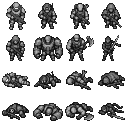
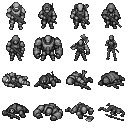
art: new berserker and high-tech ninja sprites, picked by the user (3.48.3)
Two rounds of GPT Image candidates through the local _gptImageCaller,
each with Codex's source atlas as the style reference, pixelized with
the same indexed() pipeline and shown at game size before picking.

- Berserker B1: axe resting on the right shoulder, left fist clenched.
- Ninja N2-1: sealed high-tech helmet and fitted armour, no scarf,
  katana sheathed at the left hip with the right hand on the grip.
- Matching fallen poses for both; the old fallen ninja still wore a
  hood and scarf.

tools/pixelize_classes.py reads the three new sources through
MELEE_V3 (fallen sheet lifted x1.2 to the v1 grey range). Only the four
melee sprites and the atlas files change; the other twelve PNGs are
byte-identical. Prompts are in art/classes-v1/PROMPT-melee-v3.md; the
16 unpicked candidates and both comparison sheets stay in
art/classes-v1/candidates/ as backups.

513 tests pass, build passes. Rules and saves unchanged.

Changed region(s): [[0.5, 0.7812, 1.0, 0.9688], [0.5, 0.25, 0.75, 0.5], [0.7812, 0.25, 0.9688, 0.5]]

diff --git a/sw.js b/sw.js
@@ -1,4 +1,4 @@
-const CACHE='ash-protocol-v3-48-2';
+const CACHE='ash-protocol-v3-48-3';
 const FILES=['./','./index.html','./style.css','./expansion.css','./src/main.js','./src/controller.js','./src/daily.js','./src/version.js','./src/engine.js','./src/data.js','./src/world.js','./src/barriers.js','./src/containers.js','./src/modules.js','./src/missions.js','./src/retreat.js','./src/traces.js','./src/themes.js','./src/walls.js','./src/art-tone.js','./src/materials.js','./src/material-selection.js','./src/material-review.js','./material-review.html','./src/combat.js','./src/cover.js','./src/lighting.js','./src/traits.js','./src/melee-classes.js','./src/melee-ui.js','./src/operator-color.js','./src/throwables.js','./src/prepared.js','./src/skills.js','./src/allies.js','./src/characters.js','./src/actor-stats.js','./src/portraits.js','./src/camera.js','./src/game.js','./src/perks.js','./src/storage.js','./src/progression.js','./src/ammunition.js','./src/weapons.js','./src/backup.js','./src/layout.js','./src/target-card.js','./src/presentation.js','./src/render.js','./src/renderer.js','./src/class-art.js','./assets/pixel/classes-v1/atlas.png','./src/movement-boundaries.js','./src/audio.js','./assets/icon.svg','./assets/operator.svg','./assets/rifle.svg','./assets/lmg.svg','./assets/thunder.svg','./assets/powerfist.svg','./assets/shotgun.svg','./assets/smg.svg','./assets/sniper.svg','./assets/plasma.svg','./assets/launcher.svg','./assets/pixel/atlas.png','./assets/pixel/terrain-v1/atlas.png','./assets/pixel/walls-v1/atlas.png','./assets/pixel/aftermath.png','./assets/pixel/player.png','./assets/pixel/portraits/ember.png','./assets/pixel/portraits/onyx.png','./assets/pixel/portraits/silver.png','./assets/pixel/portraits/cedar.png','./assets/pixel/portraits/portrait-05.png','./assets/pixel/portraits/portrait-06.png','./assets/pixel/portraits/portrait-07.png','./assets/pixel/portraits/portrait-08.png','./assets/pixel/portraits/portrait-09.png','./assets/pixel/portraits/portrait-10.png','./assets/pixel/portraits/portrait-11.png','./assets/pixel/portraits/portrait-12.png','./assets/pixel/portraits/portrait-13.png','./assets/pixel/portraits/portrait-14.png','./assets/pixel/portraits/portrait-15.png','./assets/pixel/portraits/portrait-16.png','./manifest.webmanifest'];
 self.addEventListener('install',event=>{event.waitUntil(caches.open(CACHE).then(cache=>cache.addAll(FILES.map(url=>new Request(url,{cache:'reload'})))));self.skipWaiting();});
 self.addEventListener('activate',event=>{event.waitUntil(caches.keys().then(keys=>Promise.all(keys.filter(k=>k.startsWith('ash-protocol-')&&k!==CACHE).map(k=>caches.delete(k)))));self.clients.claim();});

diff --git a/src/version.js b/src/version.js
@@ -1,3 +1,3 @@
 // The one place the game version lives (3.44.1). `npm run bump -- x.y.z` rewrites it together with package.json
 // and the sw.js cache name; tests/release.test.mjs fails if the three disagree.
-export const VERSION='3.48.2';
+export const VERSION='3.48.3';

diff --git a/tools/pixelize_classes.py b/tools/pixelize_classes.py
@@ -11,7 +11,14 @@ import hashlib, json
 ROOT = Path(__file__).resolve().parents[1]
 OUT = ROOT / 'assets/pixel/classes-v1'
 SOURCE = ROOT / 'art/classes-v1/source-atlas.png'
-MELEE_SOURCE = ROOT / 'art/classes-v1/source-melee-standing-v2.png'
+MELEE_SOURCE = ROOT / 'art/classes-v1/source-melee-standing-v2.png'  # 3.48.1 standing pair, kept for history
+# 3.48.3 (user pick): berserker B1 from a two-figure sheet, a single-figure high-tech ninja N2-1, and matching fallen poses.
+# Split columns are the hand-checked centres of the empty gap between the two figures.
+MELEE_V3 = {'berserker': (ROOT / 'art/classes-v1/source-berserker-v3.png', 'left', 732),
+            'ninja': (ROOT / 'art/classes-v1/source-ninja-v3.png', 'whole', None),
+            'dead-berserker': (ROOT / 'art/classes-v1/source-melee-dead-v3.png', 'left', 784),
+            'dead-ninja': (ROOT / 'art/classes-v1/source-melee-dead-v3.png', 'right', 784)}
+DEAD_V3_GAIN = 1.2  # the fallen sheet renders darker than the v1 atlas; lift it to the same grey range
 NAMES = ['soldier', 'recon', 'engineer', 'druid', 'necromancer', 'bulwark', 'berserker', 'ninja']
 GRAY = [16, 33, 58, 82, 115, 148, 181, 214, 239]
 # Hand-reviewed cell borders: generated feet cross the nominal quarter rows.
@@ -48,7 +55,7 @@ def indexed(cell, size=None, gain=1):
 
 def build():
     OUT.mkdir(parents=True,exist_ok=True); source=Image.open(SOURCE)
-    atlas=Image.new('RGBA',(128,128)); meta={'tileSize':32,'columns':4,'palette':GRAY,'source_sha256':hashlib.sha256(SOURCE.read_bytes()).hexdigest(),'melee_source_sha256':hashlib.sha256(MELEE_SOURCE.read_bytes()).hexdigest(),'sprites':{}}
+    atlas=Image.new('RGBA',(128,128)); meta={'tileSize':32,'columns':4,'palette':GRAY,'source_sha256':hashlib.sha256(SOURCE.read_bytes()).hexdigest(),'melee_v3_sha256':{key:hashlib.sha256(path.read_bytes()).hexdigest() for key,(path,_,_) in MELEE_V3.items()},'sprites':{}}
     for i in range(16):
         row,col=divmod(i,4); name=NAMES[i%8]; dead=i>=8; key=('dead-' if dead else '')+name
         if name=='soldier':
@@ -56,14 +63,14 @@ def build():
             sprite=indexed(Image.open(original).convert('RGBA'),gain=1.6)
         else:
             cell=clear_matte(source.crop((COLS[row][col],ROWS[row],COLS[row][col+1],ROWS[row+1])))
-            if not dead and name in ['berserker','ninja']:
-                replacement=Image.open(MELEE_SOURCE).convert('RGBA')
-                # Hand-reviewed gap between figures; the axe crosses the nominal middle.
-                split=round(replacement.width*.56)
-                cell=replacement.crop((0 if name=='berserker' else split,0,split if name=='berserker' else replacement.width,replacement.height))
+            gain=1
+            if key in MELEE_V3:
+                path,side,split=MELEE_V3[key]; sheet=Image.open(path).convert('RGBA')
+                cell=sheet if side=='whole' else sheet.crop((0,0,split,sheet.height)) if side=='left' else sheet.crop((split,0,sheet.width,sheet.height))
+                gain=DEAD_V3_GAIN if dead else 1
             # Keep large bodies large, rather than normalizing every silhouette to equal width.
             limit=(30,28) if name=='bulwark' else (29,27) if name=='berserker' else (27,26)
-            sprite=indexed(cell,limit)
+            sprite=indexed(cell,limit,gain)
         file=OUT/f'{key}.png'; sprite.save(file,transparency=0,bits=4,optimize=True)
         atlas.alpha_composite(sprite.convert('RGBA'),(col*32,row*32))
         meta['sprites'][key]={'x':col*32,'y':row*32,'w':32,'h':32,'sha256':hashlib.sha256(file.read_bytes()).hexdigest()}

diff --git a/art/classes-v1/PROMPT-melee-v3.md b/art/classes-v1/PROMPT-melee-v3.md
@@ -1,0 +1,43 @@
+# GPT Image：狂戰士／忍者 v3（3.48.3，Claude）
+
+工具：本機 `C:\claude_project\_gptImageCaller\generate.py`（OpenAI images edits，模型 gpt-image-2，`--background transparent`）。每次都附參考圖，只當風格參考。
+
+| 圖 | 參考圖 | 尺寸／品質 | 產出 | 使用者選擇 |
+| --- | --- | --- | --- | --- |
+| 狂戰士站姿 | source-atlas.png | 1536×768／medium | 雙人圖，左狂戰士 | **B1** → `source-berserker-v3.png` |
+| 忍者站姿 | source-atlas.png＋B1 | 1024×1024／low | 單人圖 | **N2-1** → `source-ninja-v3.png` |
+| 兩人倒地 | source-atlas.png＋B1＋N2-1 | 1536×768／low | 雙人圖 | Claude 選 dead-1 → `source-melee-dead-v3.png` |
+
+A、B、C 三組在同一輪各產兩張，A 是 Codex 的 PROMPT-melee-standing-v2 原文。使用者看過比較表後，狂戰士選 B1，並要求忍者改成「高科技、不要領巾、動作內斂」重產，N1～N3 各兩張，最後選 N2-1。沒選的都當備用，32×32 成品與比較表在 [candidates/](candidates/README.md)。
+
+## 提示詞 B（狂戰士選用這組）
+
+Generate a replacement TWO-SPRITE sheet, only two standing full-body characters, side by side in two equal cells, generous empty padding on transparent background. Match reference row2 columns3 and4 exactly in overhead front-facing camera, neutral grayscale SNES pixel style, outfit and body proportions. LEFT: broad muscular armored Berserker, thick bare arms, wide planted stance. He rests ONE long two-handed axe on his right shoulder: his right hand grips the shaft at chest height, the shaft rises over the right shoulder and the big single axe head sits above and outside the right shoulder, visibly connected to the shaft; his left hand is a clenched fist at his left side. No floating weapon, no shaft passing through the head. RIGHT: slim masked tactical Ninja with small scarf, in a low crouched ready stance with knees bent, holding ONE katana in a reverse grip in his right hand: the slender blade runs back along the outside of his right forearm with the point angled down and outward, small crossguard visible right at the fist; his left hand is held forward, open, at chest height. No second blade, no scabbard in hands, no gun stance.
+Weapons fully within own cells; readable grips and distinct blade/handle silhouettes are priority. Coarse pixel clusters designed for actual 32x32 downsampling, 9 shades of neutral gray, bold dark outlines, no colored accents, no text, no grid, no environment, no shadow, no extra characters or death poses. Preserve the reference compact helmet design for Berserker and slim Ninja hood, not realistic human proportions. The two standing sprites should occupy roughly equal height but Berserker body is visibly broader. Transparent background.
+
+## 提示詞 C（備用）
+
+Generate a replacement TWO-SPRITE sheet, only two standing full-body characters, side by side in two equal cells, generous empty padding on transparent background. Match reference row2 columns3 and4 exactly in overhead front-facing camera, neutral grayscale SNES pixel style, outfit and body proportions. LEFT: broad muscular armored Berserker, thick bare arms, feet apart. He raises ONE long two-handed axe high above his helmet with both hands gripping the shaft together, elbows up, ready for a downward chop; the big single axe head is above his head and slightly to the right, clearly connected to the shaft, silhouette taller than his body but still fully inside the cell. No floating weapon. RIGHT: slim masked tactical Ninja with small scarf, in a classic two-handed sword guard: both hands together on the short katana handle at the center of his chest, small crossguard just above the hands, ONE continuous slender blade pointing straight up and slightly forward in front of his face along the body center line. Feet in a balanced stance. No second blade, no scabbard in hands, no gun stance.
+Weapons fully within own cells; readable grips and distinct blade/handle silhouettes are priority. Coarse pixel clusters designed for actual 32x32 downsampling, 9 shades of neutral gray, bold dark outlines, no colored accents, no text, no grid, no environment, no shadow, no extra characters or death poses. Preserve the reference compact helmet design for Berserker and slim Ninja hood, not realistic human proportions. The two standing sprites should occupy roughly equal height but Berserker body is visibly broader. Transparent background.
+
+## 提示詞 N1：刀低垂在身側（備用）
+
+Use the two reference images for STYLE ONLY: the first is the game's sprite atlas, the second is a sheet whose LEFT character (a muscular berserker with an axe on his shoulder) is the chosen art direction. Create ONE single standing full-body sprite of a HIGH-TECH NINJA, centered in the image with generous transparent padding. Draw only this one character: do not draw the berserker, no other characters. Same overhead three-quarter front/down-facing camera, chunky SNES pixel-art proportions, same pixel density, outline weight and neutral gray palette as the berserker reference. Character: slim agile special-forces operative, one size slimmer than the berserker; sleek sealed high-tech helmet with a narrow horizontal visor slit (no cloth mask, no cloth hood, NO scarf, no flowing cloth, no ribbons, no belts hanging loose); form-fitting armored stealth bodysuit with smooth segmented plates on shoulders, chest, forearms and shins, compact utility belt. Pose must be restrained, calm and composed: standing upright and still, feet about shoulder width, no crouch, no leap, no dramatic action.
+Weapon: he holds the katana in his right hand, low at his side, the blade angled down and slightly forward past his right knee, a small square crossguard visible just above his fist; his left arm hangs relaxed at his side.
+Exactly ONE katana, no second blade, no gun in hand. Coarse pixel clusters designed for actual 32x32 downsampling, 9 shades of neutral gray, bold dark outline, no colored accents, no glow effects, no text, no grid, no environment, no floor, no shadow. Transparent background.
+
+## 提示詞 N2：刀收在左腰（忍者選用這組）
+
+Use the two reference images for STYLE ONLY: the first is the game's sprite atlas, the second is a sheet whose LEFT character (a muscular berserker with an axe on his shoulder) is the chosen art direction. Create ONE single standing full-body sprite of a HIGH-TECH NINJA, centered in the image with generous transparent padding. Draw only this one character: do not draw the berserker, no other characters. Same overhead three-quarter front/down-facing camera, chunky SNES pixel-art proportions, same pixel density, outline weight and neutral gray palette as the berserker reference. Character: slim agile special-forces operative, one size slimmer than the berserker; sleek sealed high-tech helmet with a narrow horizontal visor slit (no cloth mask, no cloth hood, NO scarf, no flowing cloth, no ribbons, no belts hanging loose); form-fitting armored stealth bodysuit with smooth segmented plates on shoulders, chest, forearms and shins, compact utility belt. Pose must be restrained, calm and composed: standing upright and still, feet about shoulder width, no crouch, no leap, no dramatic action.
+Weapon: the katana is sheathed in a slim high-tech scabbard on his LEFT hip, angled slightly backward; his right hand rests on the sword handle across his waist, ready to draw, and his left hand holds the scabbard just below the small crossguard. Handle, guard and scabbard must read clearly as one sheathed sword.
+Exactly ONE katana, no second blade, no gun in hand. Coarse pixel clusters designed for actual 32x32 downsampling, 9 shades of neutral gray, bold dark outline, no colored accents, no glow effects, no text, no grid, no environment, no floor, no shadow. Transparent background.
+
+## 提示詞 N3：刀背在背上（備用）
+
+Use the two reference images for STYLE ONLY: the first is the game's sprite atlas, the second is a sheet whose LEFT character (a muscular berserker with an axe on his shoulder) is the chosen art direction. Create ONE single standing full-body sprite of a HIGH-TECH NINJA, centered in the image with generous transparent padding. Draw only this one character: do not draw the berserker, no other characters. Same overhead three-quarter front/down-facing camera, chunky SNES pixel-art proportions, same pixel density, outline weight and neutral gray palette as the berserker reference. Character: slim agile special-forces operative, one size slimmer than the berserker; sleek sealed high-tech helmet with a narrow horizontal visor slit (no cloth mask, no cloth hood, NO scarf, no flowing cloth, no ribbons, no belts hanging loose); form-fitting armored stealth bodysuit with smooth segmented plates on shoulders, chest, forearms and shins, compact utility belt. Pose must be restrained, calm and composed: standing upright and still, feet about shoulder width, no crouch, no leap, no dramatic action.
+Weapon: the katana is carried in a slim scabbard diagonally across his BACK, the handle and small crossguard clearly visible sticking up above his right shoulder; both hands are empty and relaxed at his sides.
+Exactly ONE katana, no second blade, no gun in hand. Coarse pixel clusters designed for actual 32x32 downsampling, 9 shades of neutral gray, bold dark outline, no colored accents, no glow effects, no text, no grid, no environment, no floor, no shadow. Transparent background.
+
+## 提示詞：倒地
+
+Use the three reference images for STYLE AND CHARACTER DESIGN ONLY: the first is the game's sprite atlas (its rows 3 and 4 show fallen dead characters in the correct style and camera), the second is a sheet whose LEFT figure is the chosen berserker, the third is the chosen high-tech ninja. Create a TWO-SPRITE sheet, two figures side by side in two equal cells with generous transparent padding. LEFT: the SAME berserker, DEAD. RIGHT: the SAME high-tech ninja, DEAD. Each is a collapsed body lying on the floor, clearly horizontal and crumpled, seen from the same overhead three-quarter camera as the atlas; a genuinely different fallen pose, NOT a standing sprite rotated. Berserker: broad muscular armored body, thick bare arms, compact helmet with visor slit; his big single-headed axe lies on the floor beside his open hand, recognizable. Ninja: slim body, sealed high-tech helmet with narrow visor slit, form-fitting armored stealth bodysuit with segmented plates, NO scarf, no cloth, no hood; his sheathed katana lies on the floor beside him. No gore, no blood. Berserker body visibly broader than the ninja. Coarse pixel clusters designed for actual 32x32 downsampling, 9 shades of neutral gray, bold dark outlines, no colored accents, no glow, no text, no grid, no environment, no floor, no shadow. Transparent background.

diff --git a/qa/results/2026-09-11-claude-3.48.3-melee-art.md b/qa/results/2026-09-11-claude-3.48.3-melee-art.md
@@ -1,0 +1,58 @@
+# 3.48.3 狂戰士與忍者新造型（Claude）
+
+- 日期：2026-09-11
+- 作者：Claude（Opus 5）
+- 基底：main `f49d9f6`（3.48.2）。
+- 使用者要求：
+  - 找出 Codex 的提示詞，用本機 `C:\claude_project\_gptImageCaller` 多產幾組狂戰士和忍者來挑。
+  - 忍者要高科技、不要領巾、動作內斂。
+  - 狂戰士選 B1、忍者選 N2-1，其他留作備用，然後接上。
+
+## 產圖
+
+- Codex 的提示詞在 `art/classes-v1/PROMPT.md`（八職業原圖集）與 `PROMPT-melee-standing-v2.md`（3.48.1 站姿修訂）。
+- 工具與參數：gpt-image-2 的 edits，`--background transparent`（輸出為真透明），每次都附 `source-atlas.png` 當風格參考。
+
+| 輪次 | 內容 | 設定 | 費用估計 |
+| --- | --- | --- | --- |
+| 第一輪 | A（Codex 原提示詞）、B（斧扛肩／反手刀）、C（斧高舉／刀直立），各 2 張雙人圖 | 1536×768、medium | 約 0.25 美元 |
+| 第二輪 | 高科技忍者 N1（刀低垂）、N2（刀收腰）、N3（刀背在背），各 2 張單人圖；多附 B1 當參考 | 1024×1024、low | 約 0.17 美元 |
+| 倒地 | 兩人倒地雙人圖 2 張；多附 B1 與 N2-1 當參考 | 1536×768、low | 約 0.07 美元 |
+
+- 第一輪在使用者說「低品質就好」之前就用中品質送出了，之後都改用低品質。
+- 低品質每次仍要 0.06 美元左右，因為附上的參考圖是以高保真輸入計費。
+
+每張候選都用 Codex 的 `indexed()` 與相同的尺寸上限（狂戰士 29×27、忍者 27×26）縮成 32×32。比較表上同時列出灰階、琥珀塗裝，以及放在地板上的遊戲實際大小（1× 與 2×），讓使用者依實際效果挑選。
+
+## 接入
+
+- 選定來源存進 `art/classes-v1/`：
+  - `source-berserker-v3.png`：B1 雙人圖，取左半，分割欄 732。
+  - `source-ninja-v3.png`：N2-1 單人圖，整張。
+  - `source-melee-dead-v3.png`：倒地 dead-1，分割欄 784。
+- 倒地圖我選 dead-1：兩人之間有 67px 空隙，可以乾淨切開；另一張 dead-2 兩人重疊，自動切割失敗。
+- `tools/pixelize_classes.py` 新增 `MELEE_V3` 對照表，四張近戰圖改讀新來源，倒地圖亮度 ×1.2。
+  - 新倒地原圖較暗，平均灰階 57／44；v1 倒地圖是 51～76。
+  - 站姿不調整：B1 平均 65、N2-1 平均 59，已經在 v1 的 51～84 之間。
+- 重跑腳本後，只有 `berserker`、`ninja`、`dead-berserker`、`dead-ninja` 四張 PNG 與 atlas.png／atlas.json／preview.png 改變，其他十二張位元組不變。
+- 圖集裡的狂戰士、忍者站姿與比較表上的 B1、N2-1 逐像素一致。
+- 提示詞全文與設定：`art/classes-v1/PROMPT-melee-v3.md`。
+- 備用：`art/classes-v1/candidates/` 放 16 張 32×32 成品與兩張比較表，README 列出每張的原圖檔名與換用方法。
+  - 原始大圖只留在本機 `_gptImageCaller/outputs/`，約 0.9MB 一張，沒有放進 git。
+
+## 檢查
+
+- `npm test` 513/513：圖集測試會檢查 SHA 與座標、32×32、4-bit 索引、純灰、透明。`npm run build` 通過。
+- 瀏覽器（375×812，`?test=1`）：
+  - 行動員清單的狂戰士、忍者小圖與琥珀預覽都是新造型。
+  - 開局後戰場上的忍者也是新造型。
+
+## 注意
+
+- 新狂戰士因為斧頭扛在肩上，整體被高度限制縮小，身體比 v1 窄一些（不透明像素 283，v1 為 415）。
+- 新忍者很細（190 像素，v1 為 251）。在暗房、煙霧裡的辨識度要在真手機上看。
+- 倒地圖是我選的；另一張 dead-2 需要手動切割，也可以改用。
+
+## 發布紀錄
+
+（推送後補上）

diff --git a/給驗證者的紙條.md b/給驗證者的紙條.md
@@ -8,7 +8,7 @@
 - 不要清除網站資料、刪除正式存檔，也不要在正式任務裡測死亡、重開或匯入。
 - 查版本：看設定或說明頁上方的 BUILD。
 
-## 最新交付：3.48.0～3.48.2 — 職業精靈、塗裝顏色、伏擊改版
+## 最新交付：3.48.0～3.48.3 — 職業精靈、塗裝顏色、伏擊改版
 
 **3.48.0～3.48.1（Codex）八職業精靈**：本輪純素材與 renderer 接入。請在 ?test=1 檢查八職業站姿、倒地、忍者迷彩，以及暗房／牆邊的辨識與遮擋。重裝兵最寬、狂戰士次之、忍者較窄。角色數值／存檔不變。來源、預覽與重建流程：art/classes-v1/README.md。詳細報告：qa/results/2026-09-11-codex-3.48-class-art.md。
 
@@ -23,6 +23,8 @@
   - 丟一顆煙霧到目標身上再走過去砍，是最直接的驗法。
   - 「目標還沒發現你」已加入條件，但目前貼身時幾乎不會成立，見報告。
 - 本機開發伺服器原本擋掉 `assets/pixel/classes-v1/`，本機測試時會看到舊的人物圖；已修正。線上版本不受影響。
+
+**3.48.3（Claude）新造型**：狂戰士改成斧頭扛肩；忍者改成高科技、沒有領巾、刀收在左腰。兩人的倒地圖也換新。請看行動員清單的小圖、戰場站姿、各塗裝顏色下的辨識度；忍者特別細，暗房裡要特別看。
 
 ## 前一批：3.47.1～3.47.2 — 狂戰士與忍者可以選了
 

diff --git a/art/classes-v1/candidates/README.md b/art/classes-v1/candidates/README.md
@@ -1,0 +1,18 @@
+# 狂戰士／忍者備用候選（3.48.3）
+
+每張都用 `tools/pixelize_classes.py` 同一套 `indexed()`、同樣的尺寸上限縮成 32×32：狂戰士 29×27、忍者 27×26。所以這些檔案就是換進遊戲後的樣子。
+
+- `round1-sheet.png`：第一輪 A1～C2，含現行版對照。
+- `round2-ninja-sheet.png`：第二輪高科技忍者 N1～N3，每個都放在 B1 狂戰士旁邊。
+
+| 檔名 | 內容 | 原圖（只在本機 _gptImageCaller/outputs） |
+| --- | --- | --- |
+| A1／A2-berserker、-ninja | Codex 提示詞重產：斧斜握腰前、刀雙手斜舉 | ash_melee_A_20260911_221713_01／02 |
+| B1-ninja | B1 同張的忍者：壓低身體、反手握刀 | ash_melee_B_20260911_221806_01 |
+| B2-berserker、-ninja | 斧扛肩；反手握刀 | ash_melee_B_20260911_221806_02 |
+| C1／C2-berserker、-ninja | 斧高舉；刀直立身前 | ash_melee_C_20260911_221844_01／02 |
+| N1-1、N1-2-ninja | 高科技忍者，刀低垂身側 | ash_ninja_N1_20260911_222424_01／02 |
+| N2-2-ninja | 高科技忍者，刀收左腰（N2-1 已採用） | ash_ninja_N2_20260911_222453_02 |
+| N3-1、N3-2-ninja | 高科技忍者，刀背在背上 | ash_ninja_N3_20260911_222525_01／02 |
+
+換成備用的方法：把對應原圖複製進 `art/classes-v1/`，改 `tools/pixelize_classes.py` 的 `MELEE_V3` 路徑與分割欄，重跑腳本，再更新 SHA、報告與版本。

diff --git a/art/classes-v1/README.md b/art/classes-v1/README.md
@@ -16,3 +16,12 @@ renderer 的 `classSprite` 依 presentation 中的 player.character 選圖；迷
 ## 3.48.1 站姿修訂
 
 狂戰士與忍者站姿改讀 source-melee-standing-v2.png（真 alpha，無需去背景），提示見 PROMPT-melee-standing-v2.md。雙手握柄，斧刃與刀尖朝斜上方；以寬度 56% 的空隙分格。仍用原灰階／縮放管線，其他十四張 PNG 位元組不變。
+
+## 3.48.3 狂戰士／忍者 v3（Claude，使用者選圖）
+
+- 狂戰士站姿：`source-berserker-v3.png` 左半，分割欄 732。斧頭扛在右肩，左手握拳。
+- 忍者站姿：`source-ninja-v3.png` 整張。高科技密封頭盔、合身裝甲，沒有領巾，刀收在左腰、右手搭在刀柄上。
+- 兩人倒地：`source-melee-dead-v3.png`，分割欄 784。原圖較暗，縮圖時亮度 ×1.2，對齊 v1 倒地圖的灰階範圍。
+- 三張都是真透明，不需要去背。其他十二張 PNG 位元組不變；v2 來源保留作紀錄，不再使用。
+- 提示詞與工具設定見 [PROMPT-melee-v3.md](PROMPT-melee-v3.md)，沒選的候選見 [candidates/](candidates/README.md)。
+

diff --git a/docs/PIXEL_ART.md b/docs/PIXEL_ART.md
@@ -54,3 +54,5 @@ python tools/pixelize.py --source art/source-aftermath.png --aftermath --remove-
 玩家改用獨立 `classes-v1/atlas.png`，各職業站姿與倒地各一張；士兵保留舊輪廓轉灰。32×32、九階中性灰＋透明，適合日後疊色。來源、提示、預覽與重建說明見 [classes-v1 README](../art/classes-v1/README.md)，管線為 `tools/pixelize_classes.py`，座標入口為 `src/class-art.js`。不改敵人、友軍、戰鬥與存檔。
 
 3.48.2 起玩家可在新任務的行動員畫面選塗裝顏色（`src/operator-color.js`）。renderer 把灰階依明暗對應到「陰影 → 顏色 → 高光」後快取成小畫布，站姿與倒地共用；選「原色」就畫原本的灰圖。所以重畫這組圖時要維持中性灰與透明背景，灰階範圍大致落在 16～181，顏色對應才會正確。
+
+3.48.3：狂戰士與忍者的站姿、倒地換成使用者選的新造型（本機 _gptImageCaller 產圖，同一套縮圖流程），提示詞見 `art/classes-v1/PROMPT-melee-v3.md`，備用候選在 `art/classes-v1/candidates/`。

diff --git a/docs/CHANGELOG.md b/docs/CHANGELOG.md
@@ -1,5 +1,16 @@
 # 更新紀錄
 
+## 3.48.3：狂戰士與忍者新造型（Claude，使用者選圖）
+
+- 用本機 _gptImageCaller（gpt-image-2）產了兩輪候選，參考圖都是 Codex 的原圖集。
+- 使用者選定：
+  - 狂戰士 B1：斧頭扛在右肩、左手握拳。
+  - 忍者 N2-1：高科技密封頭盔、合身裝甲、沒有領巾，刀收在左腰、右手搭在刀柄上，站姿內斂。
+- 另外依新造型補了兩人的倒地圖，舊的忍者倒地圖還戴頭巾、繫領巾。
+- 用 Codex 的 `tools/pixelize_classes.py` 同一套流程縮成 32×32 灰階，並改讀三張新來源（`MELEE_V3`），倒地圖亮度 ×1.2。其他十二張成品位元組不變。
+- 提示詞與工具設定在 art/classes-v1/PROMPT-melee-v3.md。沒選的 16 張候選（32×32 成品）與兩張比較表在 art/classes-v1/candidates/ 備用。
+- 只換圖，規則與存檔不變；513 項測試（圖集 SHA／灰階／透明檢查）與 build 通過。
+
 ## 3.48.2：塗裝顏色與伏擊改版（Claude，使用者要求）
 
 - **塗裝顏色**：
